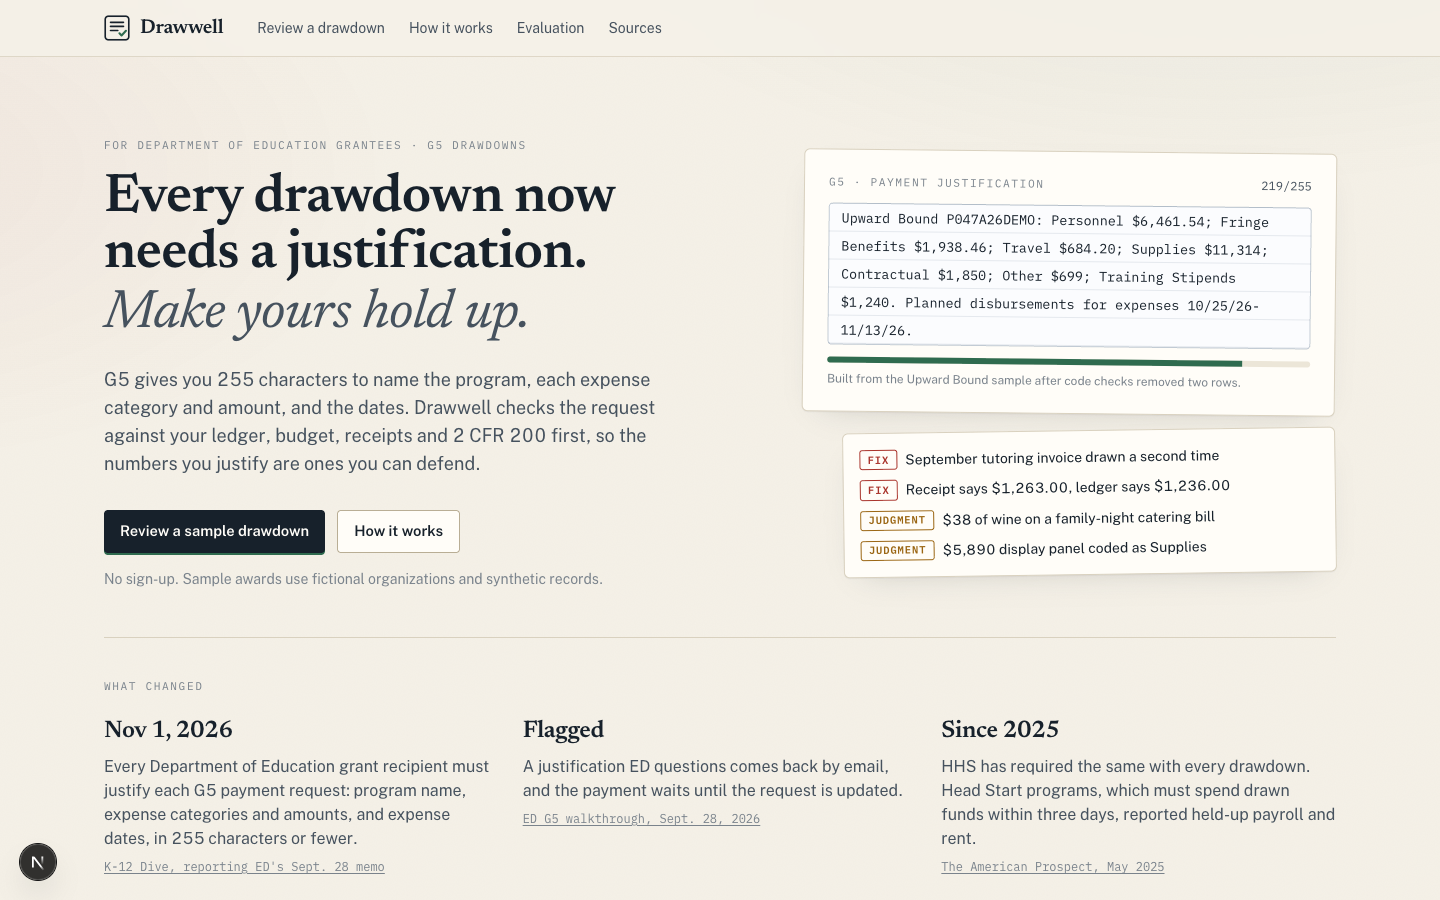
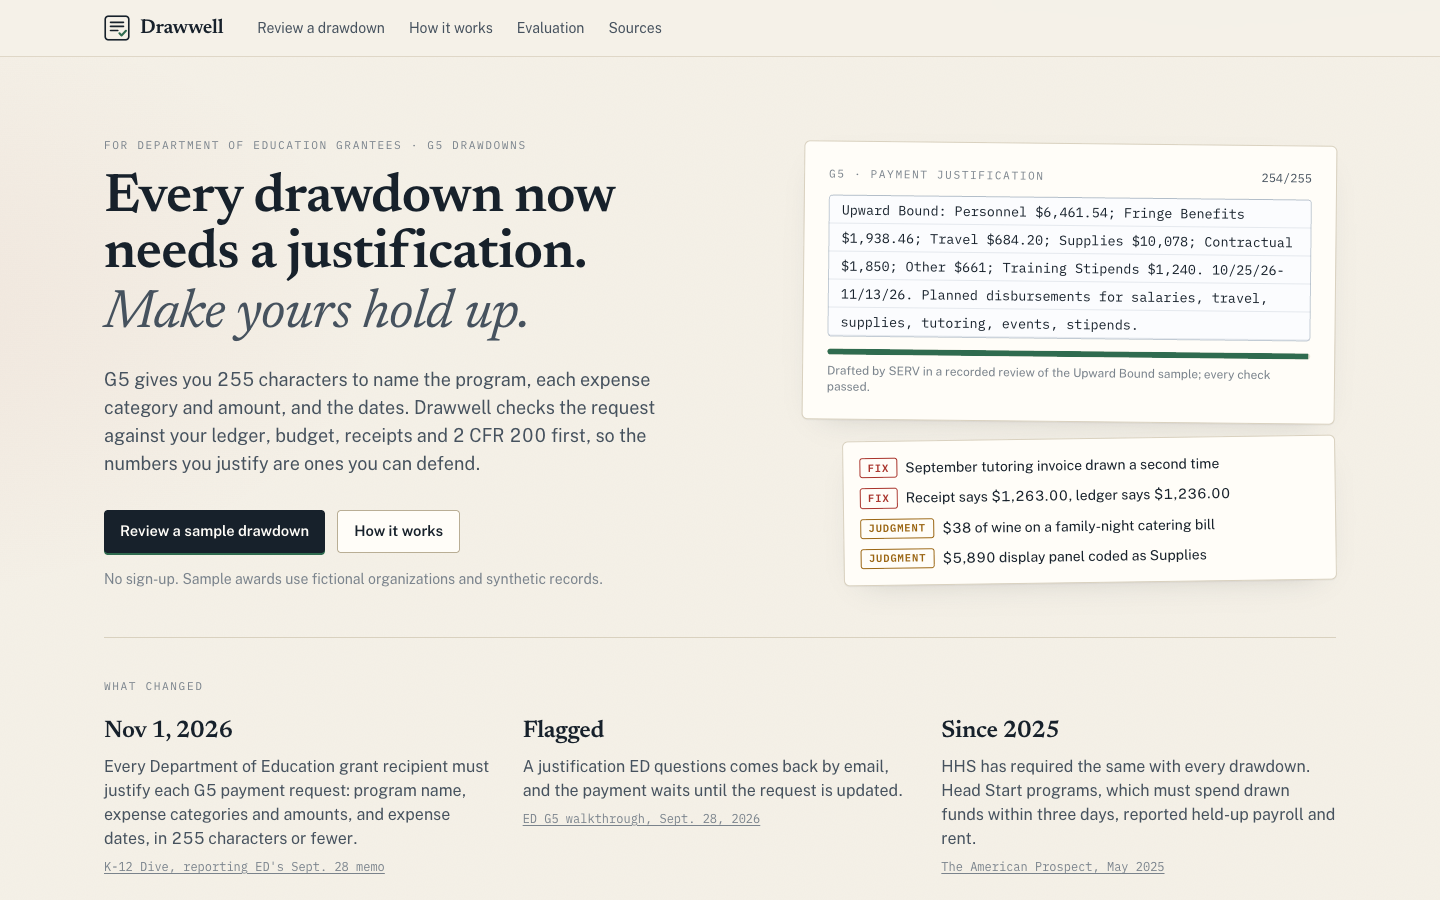
feat: add Drawwell film marketing project with lockfile, capture scripts, TTS, and React primitives

Changed region(s): [[0.5625, 0.1867, 0.9062, 0.6533], [0.0, 0.9333, 0.0625, 0.9956]]

diff --git a/src/app/page.tsx b/src/app/page.tsx
@@ -4,6 +4,7 @@ import { templateJustification } from "@/engine/justification";
 import { summarizeRequest } from "@/engine/totals";
 import { sampleInput } from "@/samples";
 import { Stamp } from "@/components/parts";
+import { BENCHMARK_RUNS } from "@/results/data.generated";
 
 function exampleJustification() {
   const input = sampleInput("upward-bound");
@@ -14,6 +15,18 @@ function exampleJustification() {
     programName: input.award.programName, awardNumber: input.award.awardNumber, basis: input.award.paymentBasis,
     totals: s.totals, startIso: s.startIso, endIso: s.endIso, personalNames: [],
   });
+}
+
+/** SERV's draft from the recorded browser run of the Upward Bound sample (docs/assets/justification.png). */
+const RECORDED =
+  "Upward Bound: Personnel $6,461.54; Fringe Benefits $1,938.46; Travel $684.20; Supplies $10,078; Contractual $1,850; Other $661; Training Stipends $1,240. 10/25/26-11/13/26. Planned disbursements for salaries, travel, supplies, tutoring, events, stipends.";
+
+const VAGUE_CHECKS = ["Program name", "Categories and amounts", "Expense dates", "Purpose"];
+const GOOD_CHECKS = ["Program name", "Every category, exact amount", "Amounts add up", "Expense dates", "Planned use", "No personal data", "254 of 255 characters"];
+
+function benchmark() {
+  const by = (c: string) => BENCHMARK_RUNS.find((r) => r.config === c)?.summary;
+  return { plain: by("single-call"), drawwell: by("drawwell"), code: by("code-only") };
 }
 
 const FACTS = [
@@ -38,7 +51,9 @@ const FACTS = [
 ];
 
 export default function Home() {
-  const example = exampleJustification();
+  const example = RECORDED;
+  const b = benchmark();
+  void exampleJustification;
   return (
     <div className="mx-auto max-w-7xl px-4 sm:px-6">
       <section className="pt-14 sm:pt-20 pb-12 grid lg:grid-cols-[1.1fr_0.9fr] gap-12 items-center">
@@ -69,7 +84,7 @@ export default function Home() {
             <div className="mt-3 h-1.5 rounded bg-paper-deep overflow-hidden">
               <div className="h-full bg-ledger" style={{ width: `${(example.length / 255) * 100}%` }} />
             </div>
-            <p className="mt-2 text-xs text-ink-faint">Built from the Upward Bound sample after code checks removed two rows.</p>
+            <p className="mt-2 text-xs text-ink-faint">Drafted by SERV in a recorded review of the Upward Bound sample; every check passed.</p>
           </div>
           <div className="card p-4 mt-4 rotate-[-0.8deg] sm:ml-10 space-y-2.5 text-sm">
             <div className="flex items-center gap-2"><Stamp tone="error">Fix</Stamp> September tutoring invoice drawn a second time</div>
@@ -90,6 +105,35 @@ export default function Home() {
               <a href={f.href} target="_blank" rel="noreferrer" className="mt-2 inline-block text-xs font-mono text-ink-faint underline underline-offset-2">{f.src}</a>
             </div>
           ))}
+        </div>
+      </section>
+
+      <section className="py-12 border-t border-rule">
+        <div className="eyebrow">Before and after</div>
+        <h2 className="font-display text-3xl font-semibold mt-2 max-w-2xl">The same drawdown, two justifications.</h2>
+        <div className="mt-6 grid md:grid-cols-2 gap-5">
+          <div className="card p-6">
+            <div className="flex items-center justify-between">
+              <div className="font-semibold">What a busy office writes</div>
+              <Stamp tone="error" tilt>Sent back</Stamp>
+            </div>
+            <p className="comment-box mt-4 rounded border border-seal/30 px-3 text-[0.9rem]">payroll</p>
+            <ul className="mt-4 grid grid-cols-2 gap-1.5 text-sm">
+              {VAGUE_CHECKS.map((c) => <li key={c} className="text-seal"><span className="font-mono mr-1.5">✕</span>{c}</li>)}
+            </ul>
+            <p className="mt-4 text-xs text-ink-faint">HHS&apos;s Head Start guide shows a justification that said only &quot;payroll&quot; being returned for more information. Under ED&apos;s rule, the payment waits.</p>
+          </div>
+          <div className="card p-6 border-ledger/40">
+            <div className="flex items-center justify-between">
+              <div className="font-semibold">What Drawwell prepares</div>
+              <Stamp tone="ok" tilt>Ready to paste</Stamp>
+            </div>
+            <p className="comment-box mt-4 rounded border border-slate/30 px-3 text-[0.82rem]">{RECORDED}</p>
+            <ul className="mt-4 grid grid-cols-2 gap-1.5 text-sm">
+              {GOOD_CHECKS.map((c) => <li key={c} className="text-ledger"><span className="font-mono mr-1.5">✓</span>{c}</li>)}
+            </ul>
+            <p className="mt-4 text-xs text-ink-faint">And before writing it, Drawwell removed $3,599 that shouldn&apos;t be drawn: an invoice drawn twice, a rental drawn too early, a receipt that didn&apos;t match, and $38 of wine.</p>
+          </div>
         </div>
       </section>
 
@@ -123,14 +167,62 @@ export default function Home() {
         </div>
       </section>
 
-      <section className="py-10 border-t border-rule grid md:grid-cols-2 gap-8">
-        <div>
-          <div className="eyebrow">Who it&apos;s for</div>
-          <p className="mt-3 font-display text-2xl leading-snug">
-            The one-person finance office behind a TRIO program, a community school partnership or a charter network, drawing federal cash every two weeks.
-          </p>
+      {b.plain && b.drawwell && (
+        <section className="py-12 border-t border-rule grid lg:grid-cols-[0.9fr_1.1fr] gap-10 items-center">
+          <div>
+            <div className="eyebrow">Why not just ask an AI?</div>
+            <h2 className="font-display text-3xl font-semibold mt-2">Because money needs proof, not plausible answers.</h2>
+            <p className="mt-4 text-ink-soft">
+              We gave the same 37 expenses to one plain SERV call with a simple prompt, the way most apps add AI, and to Drawwell. Both answered
+              the easy questions. Only one can be trusted with a dollar amount: Drawwell keeps a number or a citation only when code finds it, word
+              for word, in the receipt or the regulation.
+            </p>
+            <a href="/evaluation" className="mt-4 inline-block text-sm underline underline-offset-2">Every run, every miss</a>
+          </div>
+          <div className="card overflow-hidden">
+            <table className="w-full text-sm">
+              <thead>
+                <tr className="bg-paper-deep/50 border-b border-rule-strong text-left">
+                  <th className="px-4 py-2.5 eyebrow font-normal">On 37 labeled expenses</th>
+                  <th className="px-4 py-2.5 eyebrow font-normal text-right">Plain AI call</th>
+                  <th className="px-4 py-2.5 eyebrow font-normal text-right">Drawwell</th>
+                </tr>
+              </thead>
+              <tbody className="font-mono tabular">
+                <tr className="border-b border-rule/70"><td className="px-4 py-2.5 font-sans">Defensible answers</td><td className="px-4 text-right">{b.plain.acceptable}/{b.plain.rows}</td><td className="px-4 text-right text-ledger font-semibold">{b.drawwell.acceptable}/{b.drawwell.rows}</td></tr>
+                <tr className="border-b border-rule/70"><td className="px-4 py-2.5 font-sans">Made-up amounts to remove</td><td className="px-4 text-right text-seal">{b.plain.partialFalse}</td><td className="px-4 text-right font-semibold">{b.drawwell.partialFalse}</td></tr>
+                <tr className="border-b border-rule/70"><td className="px-4 py-2.5 font-sans">False receipt mismatches</td><td className="px-4 text-right text-seal">{b.plain.mismatchFalse}</td><td className="px-4 text-right font-semibold">{b.drawwell.mismatchFalse}</td></tr>
+                <tr className="border-b border-rule/70"><td className="px-4 py-2.5 font-sans">Unallowable lines found to the cent</td><td className="px-4 text-right">{b.plain.partialExact}/{b.plain.partialExpected}</td><td className="px-4 text-right text-ledger font-semibold">{b.drawwell.partialExact}/{b.drawwell.partialExpected}</td></tr>
+                <tr><td className="px-4 py-2.5 font-sans">Citations checked against the regulation</td><td className="px-4 text-right">none</td><td className="px-4 text-right text-ledger font-semibold">{b.drawwell.citationsVerified}/{b.drawwell.citationsReturned} kept</td></tr>
+              </tbody>
+            </table>
+          </div>
+        </section>
+      )}
+
+
+      <section className="py-12 border-t border-rule">
+        <div className="eyebrow">Who uses it, and who pays</div>
+        <h2 className="font-display text-3xl font-semibold mt-2 max-w-3xl">Every Education Department grantee now writes these. Most don&apos;t have a grants office.</h2>
+        <div className="mt-6 grid md:grid-cols-3 gap-5">
+          <div className="card p-6">
+            <div className="font-semibold">Small grantees</div>
+            <p className="mt-2 text-sm text-ink-soft">TRIO programs, community school partnerships, charter networks, adult education providers: one finance person drawing federal cash every two weeks. A subscription per award, priced below an hour of a consultant&apos;s time a month.</p>
+          </div>
+          <div className="card p-6">
+            <div className="font-semibold">Fiscal sponsors and grant consultants</div>
+            <p className="mt-2 text-sm text-ink-soft">One office drawing for dozens of awards. Per-seat pricing, with evidence reports they can hand to each client and auditor.</p>
+          </div>
+          <div className="card p-6">
+            <div className="font-semibold">State education agencies</div>
+            <p className="mt-2 text-sm text-ink-soft">Federal education money reaches districts through states, so states now review district justifications before ED does. A reviewer view, licensed per state, turns that queue into a checklist.</p>
+          </div>
         </div>
-        <div className="text-sm text-ink-soft space-y-3">
+        <p className="mt-5 text-sm text-ink-faint max-w-3xl">The same check applies wherever a federal agency asks recipients to justify each drawdown: HHS has since 2025, and NASA, NIH and the Department of Labor have their own versions. Department of Education first.</p>
+      </section>
+
+      <section className="py-10 border-t border-rule">
+        <div className="text-sm text-ink-soft space-y-3 max-w-3xl">
           <div className="eyebrow">Scope, honestly</div>
           <p>Department of Education G5 drawdowns, advance or reimbursement. Other agencies&apos; systems have different rules and limits.</p>
           <p>Drawwell does not submit anything to G5, and passing its checks is not approval. Allowability depends on your award terms; the Department decides.</p>

diff --git a/src/components/workspace/UploadPanel.tsx b/src/components/workspace/UploadPanel.tsx
@@ -91,15 +91,15 @@ export function UploadPanel({ onLoaded, onCancel }: { onLoaded: (u: UploadResult
             <Field label="Program name"><input className={input} value={award.programName} onChange={(e) => set("programName", e.target.value)} placeholder="Upward Bound" /></Field>
             <Field label="Assistance listing"><input className={input} value={award.assistanceListing} onChange={(e) => set("assistanceListing", e.target.value)} placeholder="84.047A" /></Field>
             <Field label="Recipient"><input className={input} value={award.recipient} onChange={(e) => set("recipient", e.target.value)} /></Field>
-            <Field label="Budget period start"><input type="date" className={input} value={award.budgetPeriodStart} onChange={(e) => set("budgetPeriodStart", e.target.value)} /></Field>
-            <Field label="Budget period end"><input type="date" className={input} value={award.budgetPeriodEnd} onChange={(e) => set("budgetPeriodEnd", e.target.value)} /></Field>
+            <Field label="Budget period start"><input type="date" name="budgetPeriodStart" className={input} value={award.budgetPeriodStart} onChange={(e) => set("budgetPeriodStart", e.target.value)} /></Field>
+            <Field label="Budget period end"><input type="date" name="budgetPeriodEnd" className={input} value={award.budgetPeriodEnd} onChange={(e) => set("budgetPeriodEnd", e.target.value)} /></Field>
             <Field label="Payment method" hint="From your Grant Award Notification or G5.">
               <select className={input} value={award.paymentBasis} onChange={(e) => set("paymentBasis", e.target.value as Award["paymentBasis"])}>
                 <option value="advance">Advance (immediate cash needs)</option>
                 <option value="reimbursement">Reimbursement (costs already paid)</option>
               </select>
             </Field>
-            <Field label="Request date"><input type="date" className={input} value={award.requestDate} onChange={(e) => set("requestDate", e.target.value)} /></Field>
+            <Field label="Request date"><input type="date" name="requestDate" className={input} value={award.requestDate} onChange={(e) => set("requestDate", e.target.value)} /></Field>
             {award.paymentBasis === "advance" && (
               <Field label="Disbursement window" hint="Business days, from your written cash procedures.">
                 <input type="number" min={0} max={30} className={input} value={award.advanceWindowDays} onChange={(e) => set("advanceWindowDays", Number(e.target.value))} />
@@ -113,13 +113,13 @@ export function UploadPanel({ onLoaded, onCancel }: { onLoaded: (u: UploadResult
         <div className="space-y-4">
           <div className="font-display text-xl font-semibold">Records</div>
           <Field label="Approved budget (CSV)" hint="Columns: category, approved. Categories as on ED Form 524.">
-            <input type="file" accept=".csv,text/csv" className="text-sm" onChange={(e) => readFile(e.target.files?.[0], setBudgetCsv)} />
+            <input type="file" name="budget" accept=".csv,text/csv" className="text-sm" onChange={(e) => readFile(e.target.files?.[0], setBudgetCsv)} />
           </Field>
           <Field label="Ledger export (CSV)" hint="One row per expense; mark rows already drawn in drawn_in.">
-            <input type="file" accept=".csv,text/csv" className="text-sm" onChange={(e) => readFile(e.target.files?.[0], setLedgerCsv)} />
+            <input type="file" name="ledger" accept=".csv,text/csv" className="text-sm" onChange={(e) => readFile(e.target.files?.[0], setLedgerCsv)} />
           </Field>
           <Field label="Receipts and invoices (optional, .txt)" hint="File name must match the ledger's document column.">
-            <input type="file" accept=".txt,text/plain" multiple className="text-sm" onChange={(e) => readDocs(e.target.files)} />
+            <input type="file" name="documents" accept=".txt,text/plain" multiple className="text-sm" onChange={(e) => readDocs(e.target.files)} />
           </Field>
           <Field label="Award terms (optional)" hint="Paste relevant terms; separate each with a blank line.">
             <textarea className={`${input} min-h-24`} value={termsText} onChange={(e) => setTermsText(e.target.value)} />

diff --git a/README.md b/README.md
@@ -51,6 +51,14 @@ if (allowability === "allowable" && citations.length === 0) allowability = "need
 
 Drawwell prepares a request. It does not submit to G5, approve payments or give legal advice; the Department decides.
 
+## Who uses it, and who pays
+
+- **Small grantees** (TRIO programs, community school partnerships, charter networks, adult education providers): one finance person drawing federal cash every two weeks. A subscription per award, priced below an hour of a consultant's time a month.
+- **Fiscal sponsors and grant consultants:** one office drawing for dozens of awards; per-seat pricing, with evidence reports to hand each client and auditor.
+- **State education agencies:** federal education money reaches districts through states, so states now review district justifications before ED does. A reviewer view, licensed per state.
+
+The same check applies wherever an agency asks recipients to justify each drawdown: HHS has since 2025, and NASA, NIH and the Department of Labor have their own versions. Department of Education first.
+
 ## The one moment
 
 The Upward Bound sample draws its November cash needs in advance: twelve ledger rows, $26,512.20. One review, one live SERV call ([recorded run](docs/results/runs/)), and Drawwell finds:
